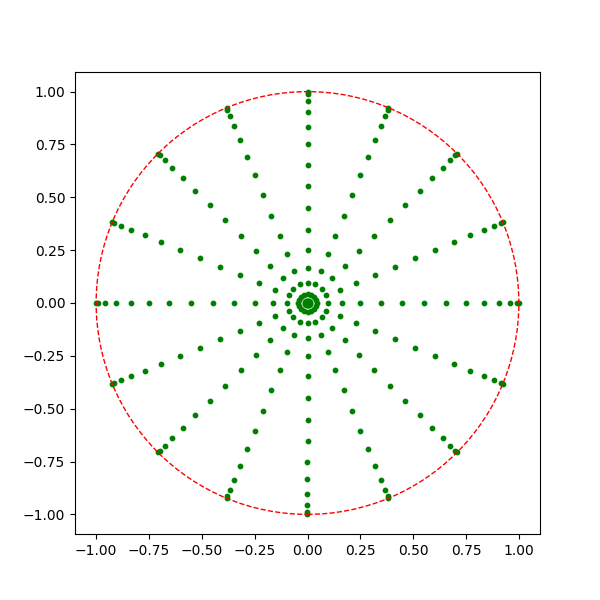
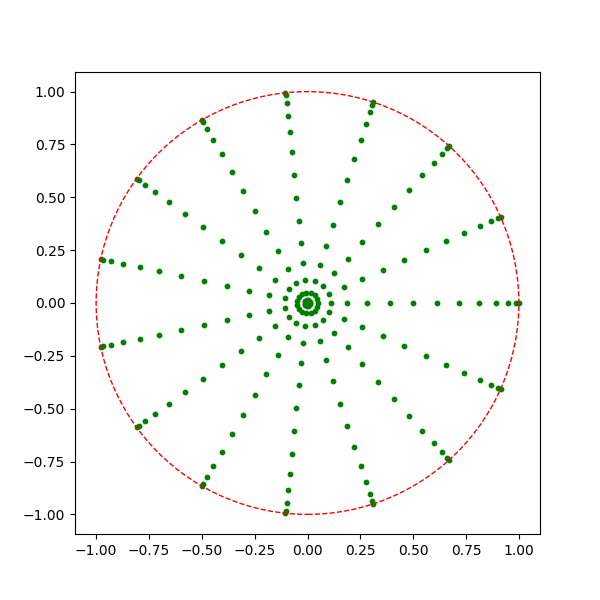
LSPUM work

diff --git a/LSPUM/test.py b/LSPUM/test.py
@@ -1,12 +1,13 @@
 from source.PatchNodes import VogelPoints
 from source.PatchNodes import PolarGLLNodes
+from source.BaseHelpers import GenMatrices
 import numpy as np
 import matplotlib.pyplot as plt
 
 #------------------------------------------------------------------------------------
 
 # Test the Vogel point generation
-N = 100
+N = 20
 d = 2
 r = 1.0
 points = VogelPoints(N, d, r)
@@ -17,14 +18,4 @@ plt.gca().add_patch(circle)
 plt.axis('equal')
 plt.savefig('figures/vogel_points.png')
 
-#------------------------------------------------------------------------------------
-n = 16
-d = 2
-r = 1.0
-gll_points = PolarGLLNodes(n, d, r)
-plt.figure(figsize=(6, 6))
-plt.scatter(gll_points[:, 0], gll_points[:, 1], s=10, color='green')
-circle = plt.Circle((0, 0), r, fill=False, color='red', linestyle='--')
-plt.gca().add_patch(circle)
-plt.axis('equal')
-plt.savefig('figures/polar_gll_points.png')
+#

diff --git a/LSPUM/source/RAHelpers.py b/LSPUM/source/RAHelpers.py
@@ -4,7 +4,25 @@ from .BaseHelpers import GenPhi
 from .BaseHelpers import GenMatrices
 from scipy import optimize
 
+#--------------------------------------------------------------------------------
+#
+#--------------------------------------------------------------------------------
+def Rank0PhiFactors(nodes, K = 64, n = 16, m = 48):
+    Er = GenEr(nodes)
+    Es = GenEs(K)
+    Ls = np.empty((len(Es), nodes.shape[0], nodes.shape[0]), dtype=complex)
+    for i in range(len(Es)):
+        phi = GenPhi(nodes, Es[i] * Er)
+        Ls[i] = np.linalg.cholesky(phi)
+    
+    return Ls, Er
+
+
+
+
 ######################################
+# C-RBF-PUM method: NOT LS
+#
 # StableFlatMatrices generates the stable
 # matrices from the RBF-RA method in the 
 # flat limit.

diff --git a/LSPUM/source/LSSetup.py b/LSPUM/source/LSSetup.py
@@ -1,0 +1,16 @@
+import numpy as np
+from mpi4py import MPI
+from .PatchNodes import GenPatchNodes
+from .BaseHelpers import GenMatrices
+from .RAHelpers import GenEr
+
+#------------------------------------------------------------------------------------
+#
+#
+#------------------------------------------------------------------------------------
+
+def SetupLS(comm, eval_nodes, npp, node_type = 'vogel', eval_eps = 0.0):
+    rank = comm.Get_rank()
+
+    if rank == 0:
+

diff --git a/LSPUM/source/Patch.py b/LSPUM/source/Patch.py
@@ -1,6 +1,5 @@
 from dataclasses import dataclass
 import numpy as np
-import numba as nb
 
 @dataclass
 class Patch:
